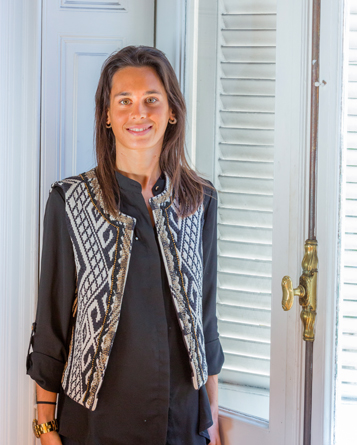
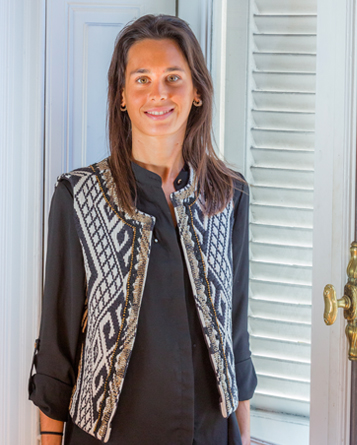
modifications

diff --git a/index.html b/index.html
@@ -50,7 +50,7 @@
               <span class="sr-only">Toggle navigation</span>
               <img draggable="false" class="hamburguer" src="./images/Hamburguer.png">
             </button>
-            <a class="navbar-brand" href="#mallorca"><img draggable="false" src="./images/logo-navbar-xs.png"></a>
+            <a class="navbar-brand" href="#mallorca"><img draggable="false" src="./images/navbar-brand.png"></a>
           </div>
 
           <div class="collapse navbar-collapse no-padding" id="bs-example-navbar-collapse-1">
@@ -77,7 +77,7 @@
             <p class="location">POLLENSA, BALEARIC ISLANDS, SPAIN</p>
           </div>
           <img draggable="false" class="mallorca-img-1" src="./images/MALLORCA HOUSE-2.jpg" draggable="false">
-          <img draggable="false" class="mallorca-img-2" src="./images/MALLORCA HOUSE-1.jpeg" draggable="false">
+          <div class="mallorca-item"><img id="animate10" draggable="false" class="mallorca-img-2" src="./images/MALLORCA HOUSE-1.jpeg"></div>
           <p class="quote-title mallorca-quote"><span class="comillas">“</span><span style="color: transparent;">....</span>Luxury is more than just achieving a comfortable lifestyle in the material realm, it is creating an experience, a feeling, a story of the surroundings. Every space we design is the unique expression of its context and function but, more importantly, of the people who live in it.<span class="comillas">”</span></p>
         </div>
       </section>
@@ -118,8 +118,10 @@
             <p class="work-title margin-top margin-bottom">ASPEN CONDO</p>
             <p class="location aspen-condo-margin">ASPEN, COLORADO, UNITED STATES</p>
           </div>
-          <img draggable="false" class="aspen-condo-img-1 only-large" src="./images/ASPEN CONDO-2.jpeg">
-          <img draggable="false" class="aspen-condo-img-1 only-mobile" src="./images/ASPEN CONDO-2-mobile.jpg">
+          <div class="condo-item">
+            <img id="animate5" draggable="false" class="aspen-condo-img-1 only-large" src="./images/ASPEN CONDO-2.jpeg">
+            <img draggable="false" class="aspen-condo-img-1 only-mobile" src="./images/ASPEN CONDO-2-mobile.jpg">
+          </div>
           <img draggable="false" class="aspen-condo-img-2" src="./images/ASPEN CONDO-1.jpg">
         </div>
       </section>
@@ -133,9 +135,11 @@
             <p class="work-title only-mobile margin-top margin-bottom">BEVERLY HILLS HOUSE</p>
             <p class="location aspen1-margin">LOS ANGELES, CALIFORNIA, UNITED STATES</p>
           </div>
-          <img draggable="false" class="bhills-img-2" src="./images/BEVERLY HILLS HOUSE-1.jpg">
           <img draggable="false" class="bhills-img-1 only-large" src="./images/BEVERLY HILLS HOUSE-2.jpg">
           <img draggable="false" class="bhills-img-1 only-mobile" src="./images/BEVERLY HILLS HOUSE-2-mobile.jpg">
+          <div class="beberly-item">
+            <img draggable="false" id="animate6" class="bhills-img-2" src="./images/BEVERLY HILLS HOUSE-1.jpg">
+          </div>
         </div>
       </section>
       <section class="work-sections" id="aspen2">
@@ -164,8 +168,10 @@
             <p class="location">VICENTE LOPEZ, BUENOS AIRES, ARGENTINA</p>
           </div>
           <img draggable="false" class="bsas-img-1" src="./images/BUENOS AIRES APARTMENT-1.jpg">
-          <img draggable="false" class="bsas-img-2 only-large" src="./images/BUENOS AIRES APARTMENT-2.jpg">
-          <img draggable="false" class="bsas-img-2 only-mobile" src="./images/BUENOS AIRES APARTMENT-2-mobile.jpg">
+          <div class="baires-item">
+            <img draggable="false" id="animate7" class="bsas-img-2 only-large" src="./images/BUENOS AIRES APARTMENT-2.jpg">
+            <img draggable="false" class="bsas-img-2 only-mobile" src="./images/BUENOS AIRES APARTMENT-2-mobile.jpg">
+          </div>
         </div>
       </section>
       <section class="work-sections" id="belAir">
@@ -280,7 +286,7 @@
 	  			<span class="line"></span>
 	  			<p class="title">OUR VISION</p>
   			</div>
-				<img draggable="false" class="about-header-mobile" src="./images/about-trucha.png"></img>
+				<img draggable="false" class="about-header-mobile" src="./images/about.jpg"></img>
 			</section>
 			<section class="about-mobile">
 				<div>
@@ -293,10 +299,10 @@
 	  		<div class="container">
 		  		<div class="row about-large">
 		  			<div class="col-lg-6 col-md-6">
-		  				<img draggable="false" style="max-width: 100%;" src="./images/about-trucha.png"></img>
+		  				<img draggable="false" style="max-width: 100%;" src="./images/about.jpg"></img>
 		  			</div>
 		  			<div class="col-lg-6 col-md-6 about-text-container">
-		  				<p class="top-text" style="margin-top: 138px;">ABOUT</p>
+		  				<p class="top-text" style="margin-top: 111px;">ABOUT</p>
 			  			<span class="line"></span>
 			  			<p class="title">OUR VISION</p>
 			  			<p class="about-text">Through the good use of space & light, careful selection of materials & finishes, and a curated election of furniture & accessories, we base our design in the context as much as in our client’s lifestyle and personality. Getting to know our clients, understanding their needs and aspirations, winning their trust and collaborating with them to fulfill their dreams are A.pb architects’ main goal. Every person is different and unique, and we are responsible for providing them with a reflection of their individuality.</p>

diff --git a/js/home.js b/js/home.js
@@ -4,19 +4,20 @@ $( document ).ready(function(){
 	});
 	
 	$(window).scroll(function() {
+		var mallorca = $('.mallorca-item').offset().top;
+	  if ($(window).scrollTop() >= (mallorca - 120) && $(window).scrollTop() <= (mallorca + 400)){
+	  	$('#animate10').addClass('item-hovered');
+	  } 
+	  if ($(window).scrollTop() >=  mallorca + 600){
+	  	$('#animate10').removeClass('item-hovered');
+	  }
+
     var caesarea = $('.caesarea-item').offset().top;
 	  if ($(window).scrollTop() >= (caesarea - 120) && $(window).scrollTop() <= (caesarea + 400)){	
 	  	$('#animate1').addClass('item-hovered');
 	  } 
 	  if ($(window).scrollTop() >=  caesarea + 600){
 	  	$('#animate1').removeClass('item-hovered');
-	  }
-	  var belair = $('.belair-item').offset().top;
-	  if ($(window).scrollTop() >= (belair - 120) && $(window).scrollTop() <= (belair + 400)){
-	  	$('#animate3').addClass('item-hovered');
-	  } 
-	  if ($(window).scrollTop() >=  belair + 600){
-	  	$('#animate3').removeClass('item-hovered');
 	  }
 
 	  var aspen1 = $('.aspen1-img-2').offset().top;
@@ -26,6 +27,14 @@ $( document ).ready(function(){
 	  if ($(window).scrollTop() >=  aspen1 + 600){
 	  	$('#animate2').removeClass('item-hovered');
 	  }
+
+	  var belair = $('.belair-item').offset().top;
+	  if ($(window).scrollTop() >= (belair - 120) && $(window).scrollTop() <= (belair + 400)){
+	  	$('#animate3').addClass('item-hovered');
+	  } 
+	  if ($(window).scrollTop() >=  belair + 600){
+	  	$('#animate3').removeClass('item-hovered');
+	  }
 	  
 	  var aspen2 = $('.aspen2-img-1').offset().top;
 	  if ($(window).scrollTop() >= (aspen2 - 120) && $(window).scrollTop() <= (aspen2 + 400)){
@@ -33,6 +42,30 @@ $( document ).ready(function(){
 	  } 
 	  if ($(window).scrollTop() >=  aspen2 + 600){
 	  	$('#animate4').removeClass('item-hovered');
+	  }
+
+	  var condo = $('.condo-item').offset().top;
+	  if ($(window).scrollTop() >= (condo - 120) && $(window).scrollTop() <= (condo + 400)){
+	  	$('#animate5').addClass('item-hovered');
+	  } 
+	  if ($(window).scrollTop() >=  condo + 600){
+	  	$('#animate5').removeClass('item-hovered');
+	  }
+
+	  var beberly = $('.beberly-item').offset().top;
+	  if ($(window).scrollTop() >= (beberly - 120) && $(window).scrollTop() <= (beberly + 400)){
+	  	$('#animate6').addClass('item-hovered');
+	  } 
+	  if ($(window).scrollTop() >=  beberly + 600){
+	  	$('#animate6').removeClass('item-hovered');
+	  }
+
+	  var baires = $('.baires-item').offset().top;
+	  if ($(window).scrollTop() >= (baires - 120) && $(window).scrollTop() <= (baires + 400)){
+	  	$('#animate7').addClass('item-hovered');
+	  } 
+	  if ($(window).scrollTop() >=  baires + 600){
+	  	$('#animate7').removeClass('item-hovered');
 	  }
 	});
 

diff --git a/css/style.css b/css/style.css
@@ -128,7 +128,11 @@ section{
 /*NAVBAR*/
 .hamburguer {
   margin-left: 10px;
-  margin-top: -24px;
+  margin-top: -35px;
+}
+.navbar-brand>img {
+  height: 82px;
+  width: auto;
 }
 .navbar {
   position: relative;
@@ -331,7 +335,7 @@ area {
   margin-left: calc(40% - 430px);
   text-align: center;
   position: absolute;
-  background-image: url('../images/WindermereIsland.jpg');
+  background-image: url('../images/contact.jpg');
   background-repeat: no-repeat;
   background-position: center;
   -webkit-background-size: cover;
@@ -678,10 +682,25 @@ area {
   left: 0;
 }
 .mallorca-img-2 {
+
+}
+.mallorca-item {
   width: 46%;
   position: absolute;
   top: 1px;
   right: 40px;
+  overflow: hidden;
+}
+.mallorca-item img {
+  width: 100%;
+  -moz-transition: all 3s;
+  -webkit-transition: all 3s;
+  transition: all 3s;
+}
+.mallorca-item:hover img {
+  -moz-transform: scale(1.1);
+  -webkit-transform: scale(1.1);
+  transform: scale(1.1);
 }
 
 /*CAESAREA*/
@@ -789,16 +808,31 @@ area {
   margin-left: 40px;
 }
 .aspen-condo-img-1 {
-  position: absolute;
-  width: 50%;
-  top: 0;
-  left: 0;
+  
 }
-.aspen-condo-img-2 {
+.aspen-condo-img-2 { 
   position: absolute;
   right: 0;
   width: 45%;
   top: 295px;
+}
+.condo-item {
+  position: absolute;
+  width: 50%;
+  top: 0;
+  left: 0;
+  overflow: hidden;
+}
+.condo-item img {
+  width: 100%;
+  -moz-transition: all 3s;
+  -webkit-transition: all 3s;
+  transition: all 3s;
+}
+.condo-item:hover img {
+  -moz-transform: scale(1.1);
+  -webkit-transform: scale(1.1);
+  transform: scale(1.1);
 }
 
 /*BEBERLY HILLS*/
@@ -813,11 +847,25 @@ area {
   width: 45%;
   top: 328px;
 }
-.bhills-img-2 {
+.bhills-img-2 { 
+}
+.beberly-item {
   top: 0;
   right: 0;
   position: absolute;
   width: 50%;
+  overflow: hidden;
+}
+.beberly-item img {
+  width: 100%;
+  -moz-transition: all 3s;
+  -webkit-transition: all 3s;
+  transition: all 3s;
+}
+.beberly-item:hover img {
+  -moz-transform: scale(1.1);
+  -webkit-transform: scale(1.1);
+  transform: scale(1.1);
 }
 
 /*ASPEN 2*/
@@ -874,11 +922,26 @@ area {
   top: 356px;
 }
 .bsas-img-2 {
+}
+.baires-item {
   top: 0;
   right: 0;
   position: absolute;
   width: 55%;
+  overflow: hidden;
 }
+.baires-item img {
+  width: 100%;
+  -moz-transition: all 3s;
+  -webkit-transition: all 3s;
+  transition: all 3s;
+}
+.baires-item:hover img {
+  -moz-transform: scale(1.1);
+  -webkit-transform: scale(1.1);
+  transform: scale(1.1);
+}
+
 .bsas-title {
   position: absolute;
   top: 66px;

diff --git a/css/responsive.css b/css/responsive.css
@@ -8,13 +8,19 @@
     padding: 0 48px!important;
   }
 }
+@media (min-width: 768px) {
+  .navbar-brand>img {
+    margin: auto;
+    margin-top: 8px;
+  }
+}
 @media (min-width: 350px) and (max-width: 767px) { /*Para iphone 6*/
-  .mallorca-img-2 {top: 1px;}
+  .mallorca-item {top: 1px;}
   .work-title {font-size: 22px;}
   #beberlyHills {height: 500px;}
 }
 @media (max-width: 350px) { /*Para iphone 5*/
-  .mallorca-img-2 {top: 18px;}
+  .mallorca-item {top: 18px;}
   .work-title {font-size: 26px;}
   #beberlyHills {height: 450px;}
 }
@@ -81,7 +87,7 @@
     padding-top: 30px;
   }
   .mallorca-img-1 {top: 124px;}
-  .mallorca-img-2 {
+  .mallorca-item {
     width: 50%;
     position: absolute;
     right: 0px;
@@ -114,7 +120,7 @@
   }
   #aspenCondo {height: 375px;}
   .aspen-condo-img-2 {top: 119px;}
-  .bhills-img-2 {top: 110px;}
+  .beberly-item {top: 110px;}
   .bhills-img-1 {top: 161px;}
   .bhills-work-title {
     width: 100%;
@@ -141,7 +147,7 @@
     margin: auto;
     left: inherit;
   }
-  .bsas-img-2 {top: 120px;}
+  .baires-item {top: 120px;}
   .bsas-img-1 {top: 174px;}
   .bsas-margin {margin-left: 0px;}
   #belAir {
@@ -264,7 +270,7 @@
 }
 
 @media (min-width: 768px) and (max-width: 991px) { /*Para monitores sm*/
-  .mallorca-img-2 {
+  .mallorca-item {
     width: 52%;
     position: absolute;
     top: 1px;
@@ -321,7 +327,7 @@
   #aspenCondo {height: 675px;}
   .aspen-condo-img-2 {top: 235px;}
   #beberlyHills {height: 865px;}
-  .bhills-img-2 {top: 148px;}
+  .beberly-item {top: 148px;}
   .bhills-img-1 {top: 257px;}
   .bhills-work-title {
     width: 100%;
@@ -407,7 +413,7 @@
 		display: inherit;
 	}
   .work-sections {height: 900px;}
-  .mallorca-img-2 {
+  .mallorca-item {
     width: 50%;
     position: absolute;
     top: 1px;
